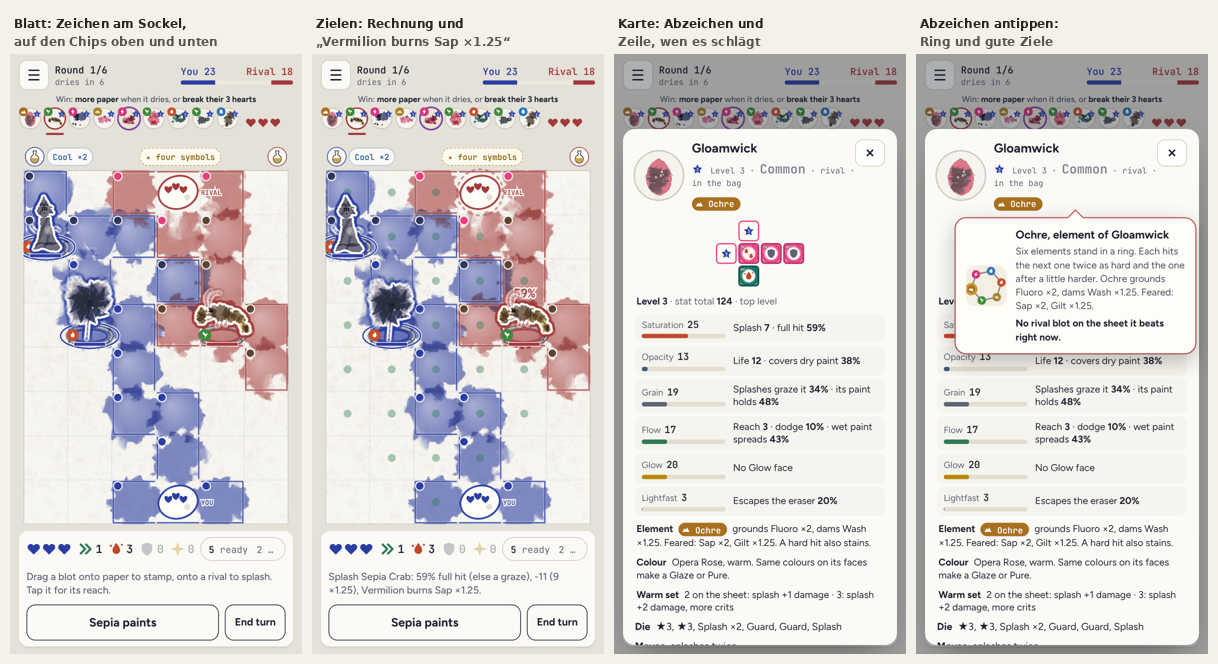
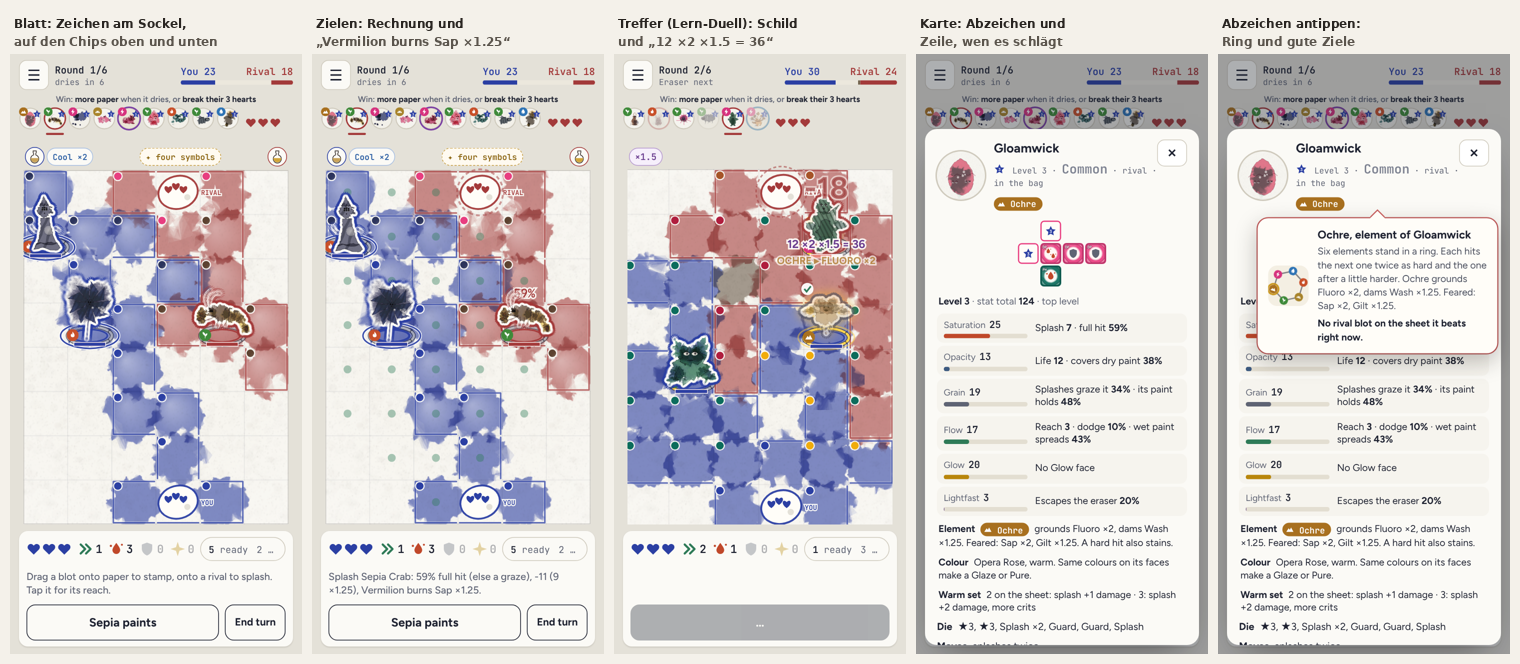
Elemente fertig: Lern-Duell Seed 133, Schild und Rechnung lesbar am oberen Rand
Claude-Session: https://claude.ai/code/session_01KdKcXqPSKubzdcpnomZUB9

diff --git a/src/client/duel.ts b/src/client/duel.ts
@@ -744,7 +744,7 @@ const LESSONS: [string, () => boolean, string][] = [
   ['drag', () => phase() === 'act' && !!tutGo() && (tutGo()!.a === 'stamp' || tutGo()!.a === 'splash'), 'Now the fun part. Drag a blot along the gold arrow and let go. Paper means stamp, a rival means splash. One drag per blot, the turn ends by itself.'],
   ['palette', () => { const a = tutGo(); return a?.a === 'splash' && a.at === S.teams[1].home; }, 'Their palette is unguarded. One Splash symbol, one heart, one per turn. A palette is safe while one of its own blots stands within two cells.'],
   ['stamp', () => tutGo()?.a === 'stamp', 'A stamp paints the blot’s shape in wet paint. Over dried paint it needs a roll: your Opacity against their Grain. Wet paint bleeds into free paper when the round ends.'],
-  ['mult', () => { const a = tutGo(); return a?.a === 'splash' && a.at !== S.teams[1].home && R.turnMult(1) > 1; }, 'Your Glaze still holds. Splash this one and watch the sum: the hit, times one and a half.'],
+  ['mult', () => { const a = tutGo(); return a?.a === 'splash' && a.at !== S.teams[1].home && R.turnMult(1) > 1; }, 'Your Glaze still holds. Splash this one and watch the sum: the hit times one and a half, and its element on top if it beats the target.'],
   ['splash', () => tutGo()?.a === 'splash', 'Splash hits a rival in reach: Saturation and a d20 against Grain and a d20. A hit paints the cell under the target. Two or three hits and a blot bursts.'],
   ['elem', () => { const a = tutGo(); if (a?.a !== 'splash' || a.at === S.teams[1].home) return false; const t = R.unitAt(a.at! % COLS, Math.floor(a.at! / COLS)); const u = R.unitById(a.id); return !!t && !!u; }, 'Every blot carries an element: Wash, Vermilion, Gilt, Sap, Ochre or Fluoro, the small badge by its feet. They stand in a ring. Each hits the next one twice as hard and the one after a little harder. Tap a badge on a card to see the ring.'],
   ['brim', () => phase() === 'act' && onSheetFull(), 'Paint soaks in. Every stamp, splash and hit fills a blot’s brim, and Glow pours into all of them. I filled this one to the top. A full blot shines gold: its next move is a master stroke.'],

diff --git a/src/client/duel/view.ts b/src/client/duel/view.ts
@@ -1447,7 +1447,8 @@ export async function playEvent(e: Ev): Promise<void> {
         const a = unitById(e.id),
           b = target ? unitById(target.id) : null;
         const lbl = a && b ? `${elementDef(a.el).name.toUpperCase()} ▸ ${elementDef(b.el).name.toUpperCase()} ×${e.mult}` : `×${e.mult}`;
-        text(x1, y1 - cell * 1.5, lbl, a ? elementDef(a.el).col : '#b8860b', 13, 1500);
+        // Ganz oben auf dem Blatt stehen Schild und Rechnung unter dem Ziel, sonst würden sie abgeschnitten
+        text(x1, y1 > cell * 1.6 ? y1 - cell * 1.5 : y1 + cell * 1.3, lbl, a ? elementDef(a.el).col : '#b8860b', 13, 1500);
         ring(x1, y1, cell * 0.4, cell * 1.2, 'rgba(201,150,30,.8)', 600, 3);
       }
       if (e.text !== 'palette') {
@@ -1466,7 +1467,7 @@ export async function playEvent(e: Ev): Promise<void> {
             .filter((v) => v !== 1)
             .map((v) => `×${+v.toFixed(2)}`)
             .join(' ');
-          const calc = { x: x1, y: y1 - cell * 1.12, text: `${e.base} ${xs}`, col: '#6a3d8f', size: 15, t0: now(), life: 1700 / V.speed };
+          const calc = { x: x1, y: y1 > cell * 1.6 ? y1 - cell * 1.12 : y1 + cell * 0.95, text: `${e.base} ${xs}`, col: '#6a3d8f', size: 15, t0: now(), life: 1700 / V.speed };
           V.texts.push(calc);
           const big = { x: x1, y: y1 - cell * 0.15, text: `-${e.base}`, col: tone, size, t0: now(), life: 1400 / V.speed };
           V.texts.push(big);

diff --git a/src/shared/duel/tutorial.ts b/src/shared/duel/tutorial.ts
@@ -11,11 +11,11 @@ import { ABILITY, aiChooseDice, aiJokerCrest, aiReroll, bestOpening, byGesture, 
 /** Bis zu dieser Runde gibt Sepia jeden Schritt vor */
 export const TUTORIAL_ROUNDS = 3;
 /**
- * Per Suche gewählt (Kampf A, 01.11.2026): Runde 1 Beschwören, trockener Neuwurf, Spritzer, Palette. Runde 2 Glaze aus zwei
- * Carmine-Seiten nach einem Neuwurf, Treffer mit ×1.5, Palette. Runde 3 nasser Neuwurf mit Schlamm, Beschwören, Meisterzug.
- * Drei Rivalen platzen
+ * Per Suche gewählt (Elemente, 01.11.2026): Runde 1 drei Sterne mit Joker, Beschwören, Spritzer. Runde 2 Glaze aus zwei
+ * Ultramarin-Seiten, Treffer mit Element und Glaze „12 ×2 ×1.5 = 36“, Meisterzug. Runde 3 trockener und nasser Neuwurf mit
+ * Schlamm, Palette, Meisterzug
  */
-export const TUTORIAL_SEED = 267;
+export const TUTORIAL_SEED = 133;
 
 export function tutorialBags(): [Monster[], Monster[]] {
   return [

diff --git a/CLAUDE.md b/CLAUDE.md
@@ -130,6 +130,7 @@ Falten (zwei Monster spiegelsymmetrisch verschmelzen, auch mit Faltpartnern aus 
 - Freigegeben am 01.11.2026 („1 b ist ok, 2 ok, 3 ok, 4 ja“): Farbe B, Holo-Würfel, 15 Stil-Würfel, überall. Gebaut: Haut aus dem Monster (`lookOf`: Stil-Haut oder `tag`, Ton, Holo), 3D-Würfel auf der Bühne (auch Schlamm und Neuwurf), Netz-Vorschau beim Beschwören (Seite größer, Holo-Rand), Aufklappen auf dem Blatt, Chips in der Beschwörphase, Karte im Duell, Würfelkarte in Sammlung, Markt und Tausch (Netz und Seiten), Karte beim Ziehen. Holo-Folie weicher als im Entwurf (auf Neon war die Zahl sonst kaum lesbar). Keine Regeländerung. Playtest v0.0.1.113. Bild docs/entwuerfe/wuerfel-haut-im-spiel.png
 - Kampf A Schritt 3 gebaut (01.11.2026, „mach Schritt 3, das Lern-Duell“): Lern-Deck mit je zwei Klecksen in Ultramarin und Carmine (Knolle Carmine, Strahler Ultramarin statt Sepia und Indigo), Seed 267 per Suche: Runde 1 Beschwören, trockener Neuwurf, Palette; Runde 2 Glaze aus zwei Carmine-Seiten nach einem Neuwurf, Treffer „9 ×1.5 = 14“, Palette; Runde 3 nasser Neuwurf mit Schlamm, Meisterzug, drei Rivalen platzen. Sepia erklärt neu: Farben und Kürzel beim ersten Wurf, Nässe nach dem trockenen Neuwurf (`wet`), Glaze (`glaze`), Rechnung vor dem Treffer (`mult`), Schlamm (`mud`). Behoben: Rivale und Sepia warfen ein fertiges Glaze weg (hielten nur Joker), jetzt bleiben seine beiden Seiten liegen (Siegquoten gleich: Geselle 94 %, Meister 41 %, Galerie 70 %). Test prüft Glaze, Multiplikator und Schlamm im Lern-Duell. Bild docs/entwuerfe/lern-duell-farbe.png. Playtest v0.0.1.115 (nach neuem Devvit-Login)
 - Wunsch 01.11.2026: jedes Monster bekommt ein Element (Blitz, Wasser, Feuer, Erde, Holz, Metall …) mit Namen aus der Malerei, Schere-Stein-Papier mit 1,25- bis 2-fachem Schaden. Vorschlag docs/entwuerfe/elemente-vorschlag.md mit Entwurf elemente-entwurf.png (Quelle tools/mockup/elemente-entwurf.ts): sechs Elemente Wash (Wasser), Vermilion (Feuer), Gilt (Metall), Sap (Holz), Ochre (Erde), Fluoro (Blitz) im Ring, jedes schlägt das nächste ×2 und das übernächste ×1,25, eigener Wurf je Monster aus dem Seed, ersetzt beim Spritzen den versteckten Farbkreis (×1,5 / ×0,75), multipliziert mit Glaze und Pure, Abzeichen überall. Simulation (Probe, zurückgesetzt): Siegquoten unverändert (Meister 40 %). Wartet auf Freigabe (5 Fragen)
+- Freigegeben am 01.11.2026 („passt“, alle fünf Empfehlungen). Gebaut: Element je Monster aus dem Seed (src/shared/elements.ts, `elementOf`, Unit-Feld `el`), Ring Wash, Vermilion, Gilt, Sap, Ochre, Fluoro mit ×2 und ×1,25 (`elementMult`), ersetzt beim Spritzen den Farbkreis (`elemMult`, `elemWord` statt `typeMult`, `relWord`), harter Element-Treffer färbt ab (früher die Gegenfarbe), multipliziert mit Glaze und Pure, Rivale rechnet mit. Anzeige (src/client/duel/elements.ts): Zeichen am Sockel auf dem Blatt, auf den Chips (eigene und Rivale), Abzeichen auf der Karte im Duell (antippen zeigt Ring und gute Ziele, die aufleuchten), auf der Würfelkarte mit Zeile, Werte-Teil mit Element statt Farbkreis, Kacheln in Sammlung und Markt, Markt-Filter je Element, Vorschau beim Zielen mit Rechnung, Treffer-Schild „OCHRE ▸ FLUORO ×2“ und Rechnung „12 ×2 ×1.5 = 36“ (oben auf dem Blatt unter dem Ziel), Hilfe. Lern-Duell Seed 133 (drei Sterne mit Joker, Glaze mit Element-Treffer, nasser Neuwurf mit Schlamm), Sepia erklärt Elemente beim ersten Spritzer (`elem`). Simulation (400 Duelle): Geselle 96 %, Meister 42 %, Galerie 74 %. Speicherstand v7, DUEL_PROTOCOL 17. Tests tests/elements.test.ts. Playtest v0.0.1.117. Bild docs/entwuerfe/elemente-im-spiel.png
 - Gewünscht am 01.11.2026: Symbole im Kampf antippen zeigt eine kurze Erklärung mit Effekten. Gebaut: Erklärkarte neben dem Symbol (`explain` in src/client/duel.ts, Aussehen in src/client/duel/dieskin.css) mit bewegtem Symbol, was es tut und was es gerade bewirkt, dazu pulsieren die Felder auf dem Blatt, auf die es wirkt (`View.pulse`). Für Step, Splash, Guard, Glow im Vorrat, beide Herzreihen, den Stand, Malmittel, Set-Bonus, Sepias Auftrag, Multiplikator und Joker (bisher Laufschrift unten). Noch einmal antippen oder woanders tippen schließt sie. Bild docs/entwuerfe/symbol-hilfe.png. Playtest v0.0.1.115
 - Festgelegt am 28.10.2026: weitere Stile außer Aquarell, seltene Papiere, jedes Monster und jede Karte einzigartig, Drumherum spaßiger als reines Sammeln oder Kämpfen
 - App `beforeitdries` angelegt (28.10.2026, Konto u/Vegavild). Playtest v0.0.1.1 in r/beforeitdries: https://www.reddit.com/r/beforeitdries/?playtest=beforeitdries
